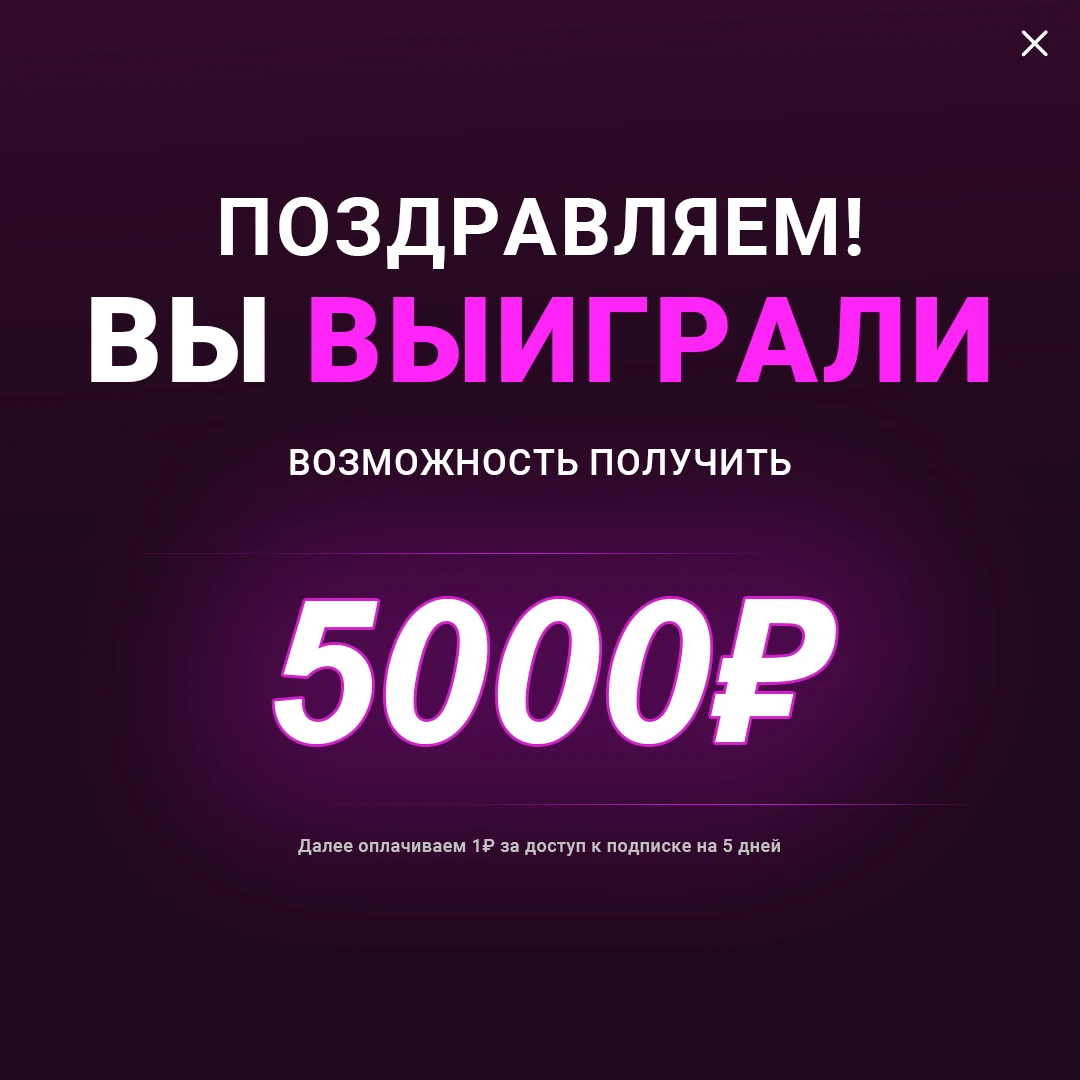
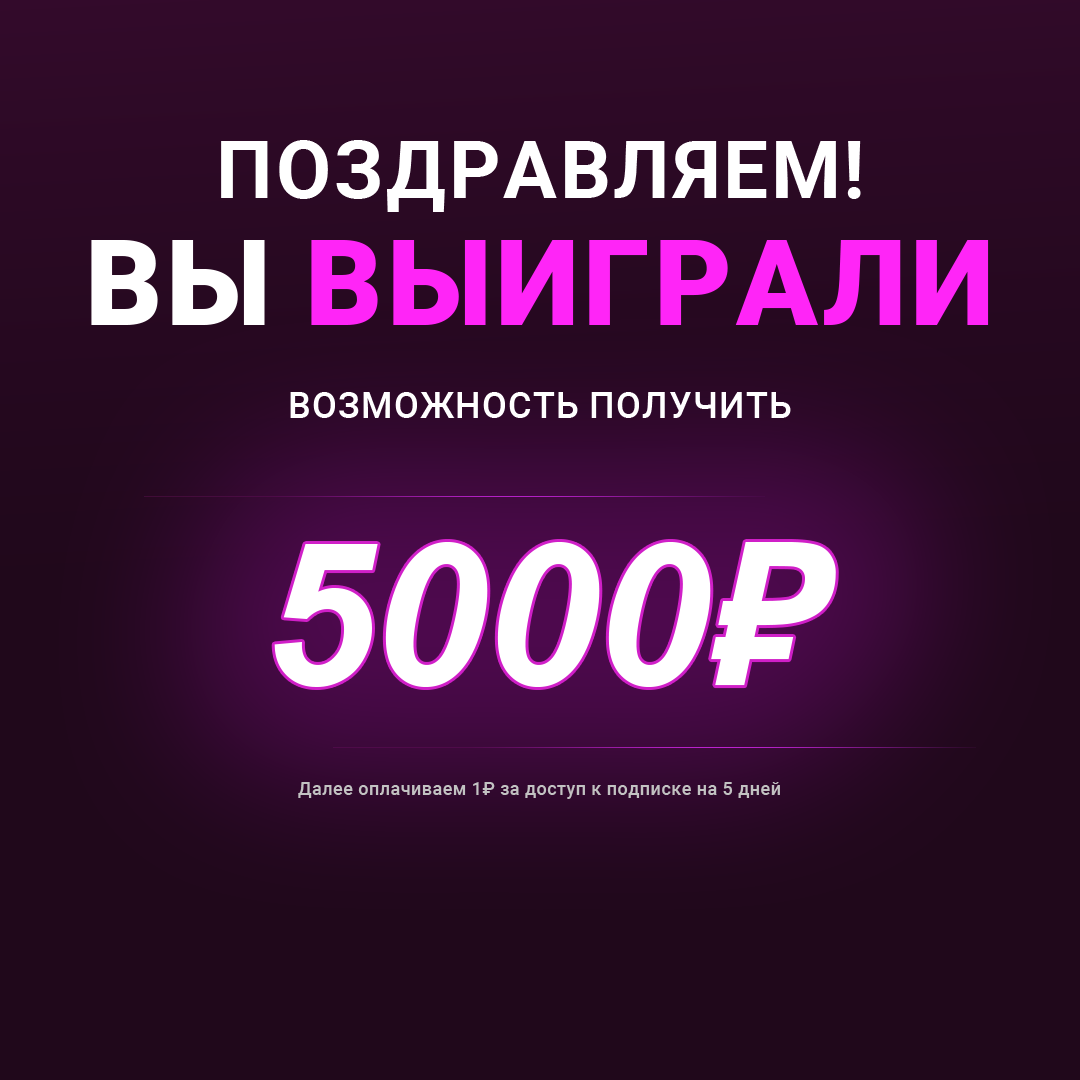
adaptiveFixes

Changed region(s): [[0.0611, 0.1222, 0.9167, 0.4583], [0.2444, 0.4889, 0.7944, 0.7944], [0.9472, 0.0306, 0.9778, 0.0611]]

diff --git a/styles.css b/styles.css
@@ -274,9 +274,9 @@ body {
 
 .invite,
 .free-spin {
-  width: 45%;
+  width: 48%;
   height: 65px;
-  padding: 5px 15px 0px 15px;
+  padding: 5px 2% 0px 2%;
   background-color: #6d296f;
   border-radius: 12px;
   box-shadow: 0 4px 30px rgba(0, 0, 0, 0.1);
@@ -291,11 +291,14 @@ body {
 }
 
 .invite-btn, .free-spin-btn {
-  width: auto;
+  width: 90%;
   height: 30px;
   padding: 5px 30px 5px 30px;
   margin-bottom: 5px;
   text-align: center;
+  white-space: nowrap;
+  overflow: hidden;
+  text-overflow: ellipsis;
   font-family: "Roboto", serif;
   font-weight: 700;
   font-style: normal;
@@ -317,6 +320,7 @@ body {
 }
 
 .free-spin span {
+  width: 100%;
   font-size: 14px;
 }
 
@@ -331,12 +335,14 @@ body {
   color: white;
   background: rgba(135, 96, 145, 0.2);
   border-radius: 12px 12px 0 0;
-  padding: 20px;
+  padding: 2%;
   text-align: center;
 }
 
 .roulet_btn, .friends_btn, .tasks_btn {
   width: 100px;
+  max-height: 70px;
+  min-height: 50px;
   display: flex;
   flex-direction: column;
   align-items: center;
@@ -375,14 +381,17 @@ body {
 }
 
 .modal-content {
+  display: flex;
+  flex-direction: column;
+  justify-content: space-between;
   color: #202020;
   position: relative;
-  padding: 20px;
   border-radius: 5px;
   box-shadow: 0 5px 15px rgba(0, 0, 0, 0.3);
   text-align: center;
   max-width: 500px;
   width: 90%;
+  height: 300px;
   z-index: 1006;
 }
 
@@ -394,6 +403,7 @@ body {
 .iphone {
   background-image: url(./Photos/prizeIphone.webp);
   background-size: contain;
+  background-repeat: no-repeat;
   width: 300px;
   height: 300px;
 }
@@ -401,6 +411,7 @@ body {
 .prize5000 {
   background-image: url(./Photos/prize5000.webp);
   background-size: contain;
+  background-repeat: no-repeat;
   width: 300px;
   height: 300px;
 }
@@ -408,10 +419,9 @@ body {
 .modal-content a {
   height: 40px;
   width: 150px;
+  margin-bottom: 20px;
   padding: 5px 15px 5px 15px;
-  position: absolute;
-  left: 25%;
-  bottom: 10px;
+  align-self: center;
   border-radius: 16px;
   line-height: 30px;
   text-decoration: none;
@@ -421,7 +431,8 @@ body {
 }
 
 .close-button {
-  position: absolute;
+  /* position: absolute; */
+  align-self: flex-end;
   top: 0;
   right: 0;
   background: none;

diff --git a/Pages/Coupons/coupons.js b/Pages/Coupons/coupons.js
@@ -48,7 +48,7 @@ window.addEventListener("load", async () => {
       card.classList.add("coupon-card");
       couponsList.appendChild(card);
 
-      const couponItem = document.createElement("h3");
+      const couponItem = document.createElement("h6");
       couponItem.textContent = coupon;
       couponItem.id = "coupon";
       card.appendChild(couponItem);
@@ -60,14 +60,41 @@ window.addEventListener("load", async () => {
       card.appendChild(copyButton);
 
       copyButton.addEventListener("click", async () => {
+        const textToCopy = coupon;
+        const notification = document.getElementById("copyNotification");
+  
         try {
-          await navigator.clipboard.writeText(coupon);
-          alert("Купон скопирован: " + coupon);
+          await navigator.clipboard.writeText(textToCopy);
+  
+          notification.textContent = "Ссылка скопирована!";
+          notification.classList.add("show");
+          notification.classList.remove("hidden");
+  
+          setTimeout(() => {
+            notification.classList.remove("show");
+          }, 3000);
         } catch (err) {
-          console.error("Ошибка при копировании:", err);
-          alert("Ошибка при копировании.");
+          console.error("Ошибка при копировании ссылки:", err);
+  
+          notification.textContent = "Ошибка при копировании.";
+          notification.classList.add("show");
+          notification.classList.remove("hidden");
+  
+          setTimeout(() => {
+            notification.classList.remove("show");
+          }, 3000);
         }
       });
+
+      // copyButton.addEventListener("click", async () => {
+      //   try {
+      //     await navigator.clipboard.writeText(coupon);
+      //     alert("Купон скопирован: " + coupon);
+      //   } catch (err) {
+      //     console.error("Ошибка при копировании:", err);
+      //     alert("Ошибка при копировании.");
+      //   }
+      // });
     });
   }
 });

diff --git a/Pages/Coupons/coupons.css b/Pages/Coupons/coupons.css
@@ -125,7 +125,7 @@ body {
   align-self: flex-start;
 }
 
-#couponsList {
+.coupons-list {
   display: flex;
   flex-direction: column;
   gap: 15px;
@@ -136,29 +136,59 @@ body {
 }
 
 .coupon-card {
-  display: flex;
+  /* display: flex;
   flex-direction: column;
   background: rgba(255, 255, 255, 0.1);
   padding: 20px;
   border-radius: 16px;
   box-shadow: 0 4px 30px rgba(0, 0, 0, 0.2);
-  border: 1px solid rgba(255, 255, 255, 0.2);
+  border: 1px solid rgba(255, 255, 255, 0.2); */
+
+  width: 100%;
+  padding-bottom: 10px;
+  display: flex;
+  align-items: center;
+  border-bottom: 1px solid #4e2747;
 }
 
-.coupon-card h3 {
-  margin: 0 0 10px 0;
-  font-size: 20px;
+.coupon-card h6 {
+  margin: 0 0 5px 0;
+  font-size: 14px;
+  text-align: start;
   color: #ffffff;
 }
 
 .coupon-button {
+  margin-left: auto;
+  padding: 0;
   text-decoration: none;
-  color: #ffffff;
-  background: linear-gradient(45deg, #ff40d4, #cb11ab);
-  padding: 10px 20px;
-  border-radius: 8px;
+  color: #ff51ff;
+  background: none;
   border: none;
-  font-size: 16px;
+  border-radius: 8px;
+  font-size: 14px;
   font-weight: 700;
   text-align: center;
+}
+
+#copyNotification {
+  position: fixed;
+  bottom: 100px;
+  left: 50%;
+  transform: translateX(-50%);
+  background-color: rgba(135, 96, 145, 0.2);
+  color: #fff;
+  padding: 10px 20px;
+  border-radius: 16px;
+  font-size: 14px;
+  opacity: 0;
+  transition: opacity 0.3s ease-in-out;
+}
+
+#copyNotification.show {
+  opacity: 1;
+}
+
+.hidden {
+  display: none;
 }

diff --git a/main.js b/main.js
@@ -271,13 +271,15 @@ window.addEventListener("load", async () => {
         // Прокрутка
         rotateWheel(degree);
 
-        if (["iphone", "5000"].includes(prize)) {
+        if (["iphone", "5.000", "500"].includes(prize)) {
           setTimeout(() => {
             console.log("Модальное окно открыто");
-            if(prize === 'iphone') {              
+            if(prize === 'iphone') {   
+              prizeModal.firstChild.nextSibling.classList.remove('prize5000');
               prizeModal.firstChild.nextSibling.classList.add('iphone');
             }
-            if(prize === '5000') {
+            if(prize === '5.000') {
+              prizeModal.firstChild.nextSibling.classList.remove('iphone');
               prizeModal.firstChild.nextSibling.classList.add('prize5000');
             }
             prizeModal.style.display = "flex";

diff --git a/Pages/Coupons/coupons.html b/Pages/Coupons/coupons.html
@@ -15,7 +15,7 @@
 <body>
     <div class="container" id="container">
         <div class="info_container">
-            <a class="back" href="../../" id="homeLink">X</a>
+            <a class="back" href="../../" id="homeLink">&times;</a>
             <div class="info_user">
                 <h1 class="info_user_name">PUG</h1>
                 <h5>Всего купонов</h5>
@@ -26,10 +26,11 @@
         </div>
         <div class="coupons_container">
             <h1>Купоны</h1>
-            <ul id="couponsList">
+            <div class="coupons-list" id="couponsList">
     
-            </ul>
+            </div>
         </div>
+        <div id="copyNotification" class="hidden">Купон скопирован!</div>
     </div>
     <script src="./coupons.js"></script>
 </body>
